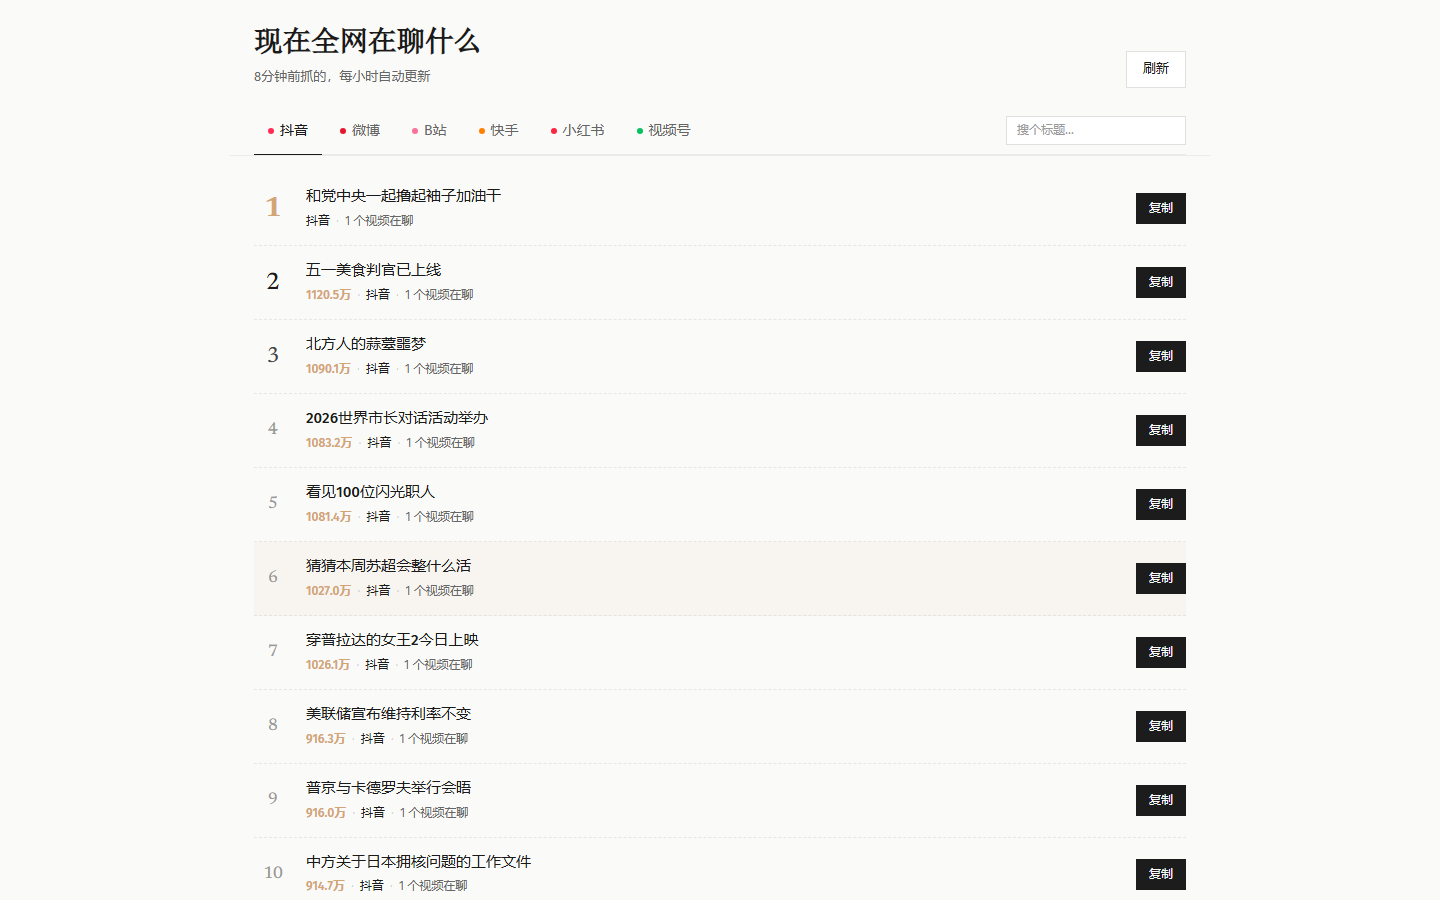
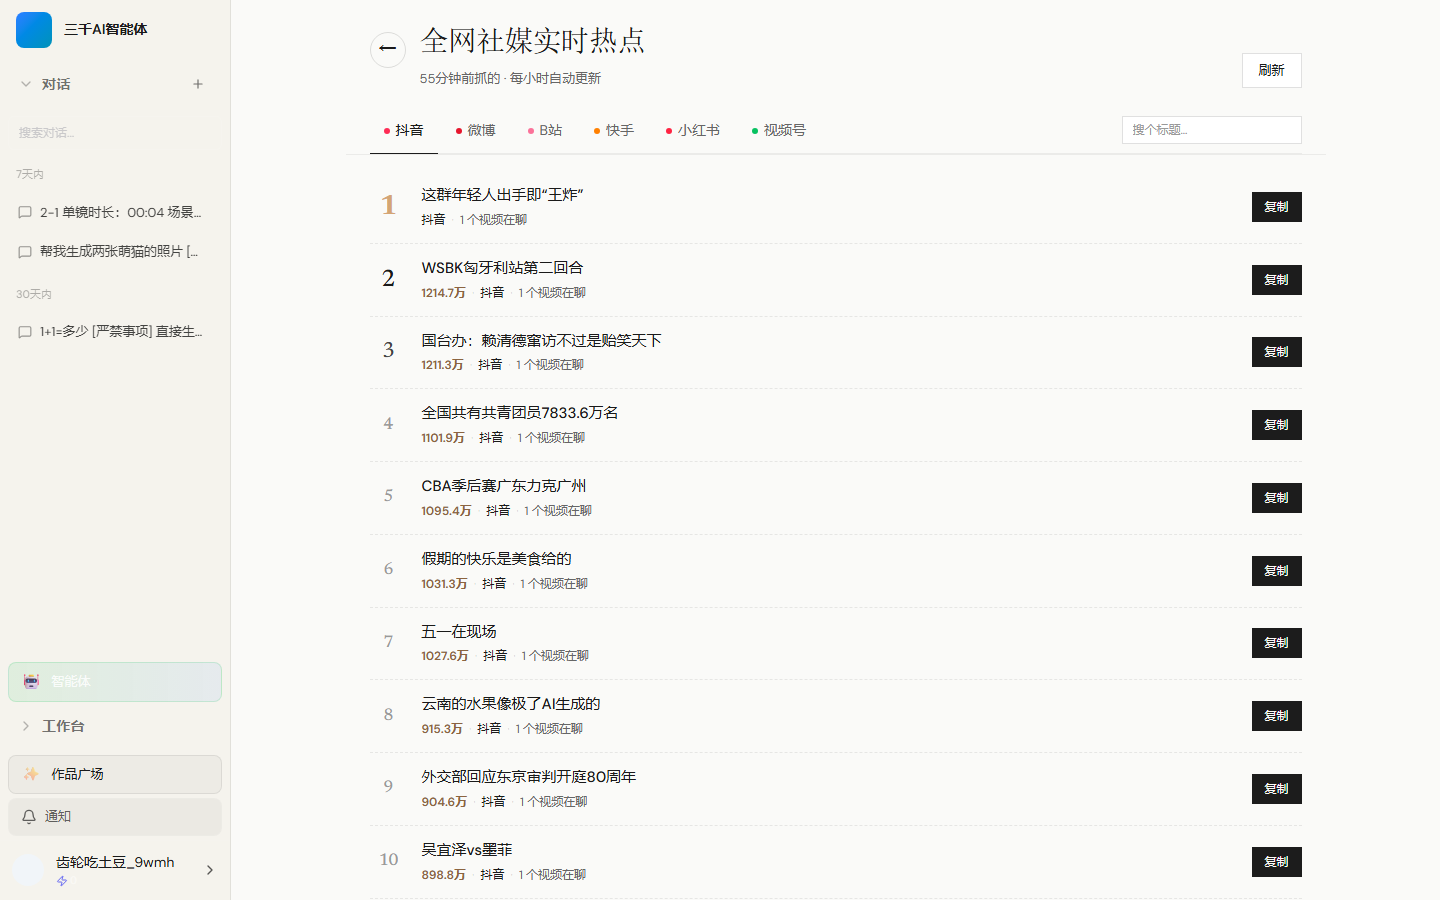
docs: 全网热搜 6 平台全部上线 + 21-social-trending 实拍
- 21-social-trending.png 替换为实拍 v1.0.5 版（6 tab 抖音/微博/B站/快手/小红书/视频号 + 抖音前 10 + 复制按钮）
- README & product.md: 视频号从「持续接入」更正为「热门话题已全部接入」（截图证实视频号 tab 在线）

diff --git a/docs/product.md b/docs/product.md
@@ -134,7 +134,7 @@ Aabao 全模态 · Aabao Sora 按次 · Aabao Gemini · ePhone API · ePhone Kli
 
 | 维度 | 能力 |
 |---|---|
-| 📡 **数据源** | 抖音热搜 · 微博热搜榜 · B 站热搜 · 快手热榜 · 小红书热榜 · 视频号(持续接入)|
+| 📡 **数据源** | 抖音热搜 · 微博热搜榜 · B 站热搜 · 快手热榜 · 小红书热榜 · 视频号热门话题 (6 平台全部接入)|
 | ⏱ **更新频率** | 每整点小时自动 cron 拉取 + 可手动刷新 |
 | 🎯 **工作台直达** | 工作台顶部「现在大家在聊」teaser 一行展示,点击进入完整热点列表 |
 | 📋 **一键复制** | 单条热搜直接复制标题到剪贴板,粘到 IP 文案工坊立即出脚本 |

diff --git a/README.md b/README.md
@@ -121,7 +121,7 @@
 
 | 维度 | 能力 |
 |---|---|
-| 📡 **数据源** | 抖音热搜 · 微博热搜榜 · B 站热搜 · 快手热榜 · 小红书热榜 · 视频号(持续接入)|
+| 📡 **数据源** | 抖音热搜 · 微博热搜榜 · B 站热搜 · 快手热榜 · 小红书热榜 · 视频号热门话题 (6 平台全部接入)|
 | ⏱ **更新频率** | 每整点小时自动 cron 拉取 + 可手动刷新 |
 | 🎯 **工作台直达** | 工作台顶部「现在大家在聊」teaser 一行展示,点击进入完整热点列表 |
 | 📋 **一键复制** | 单条热搜直接复制标题到剪贴板,粘到 IP 文案工坊立即出脚本 |
